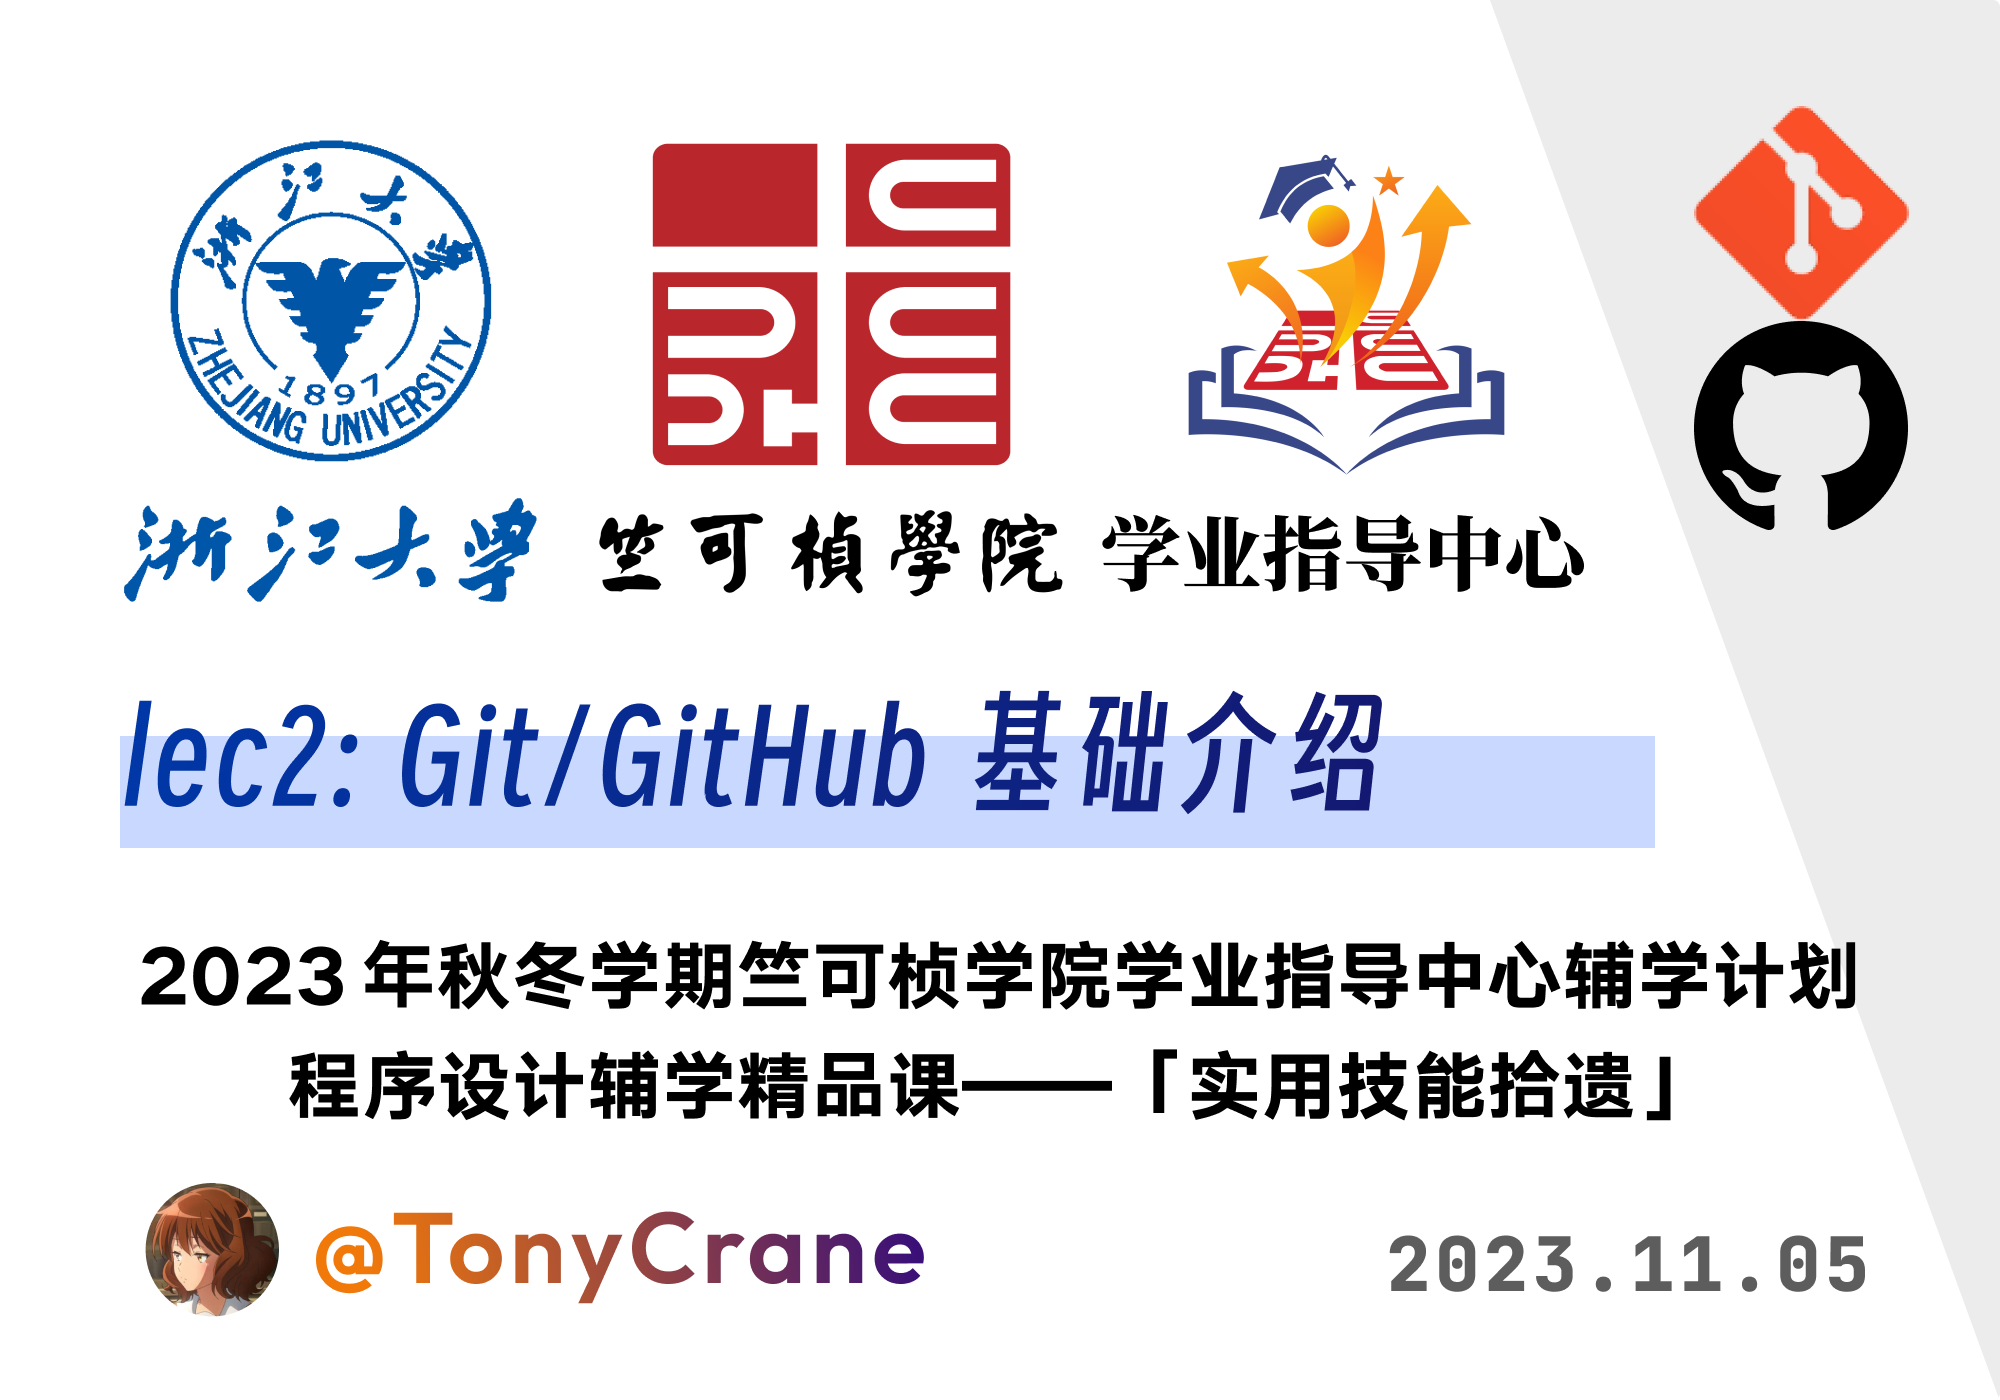
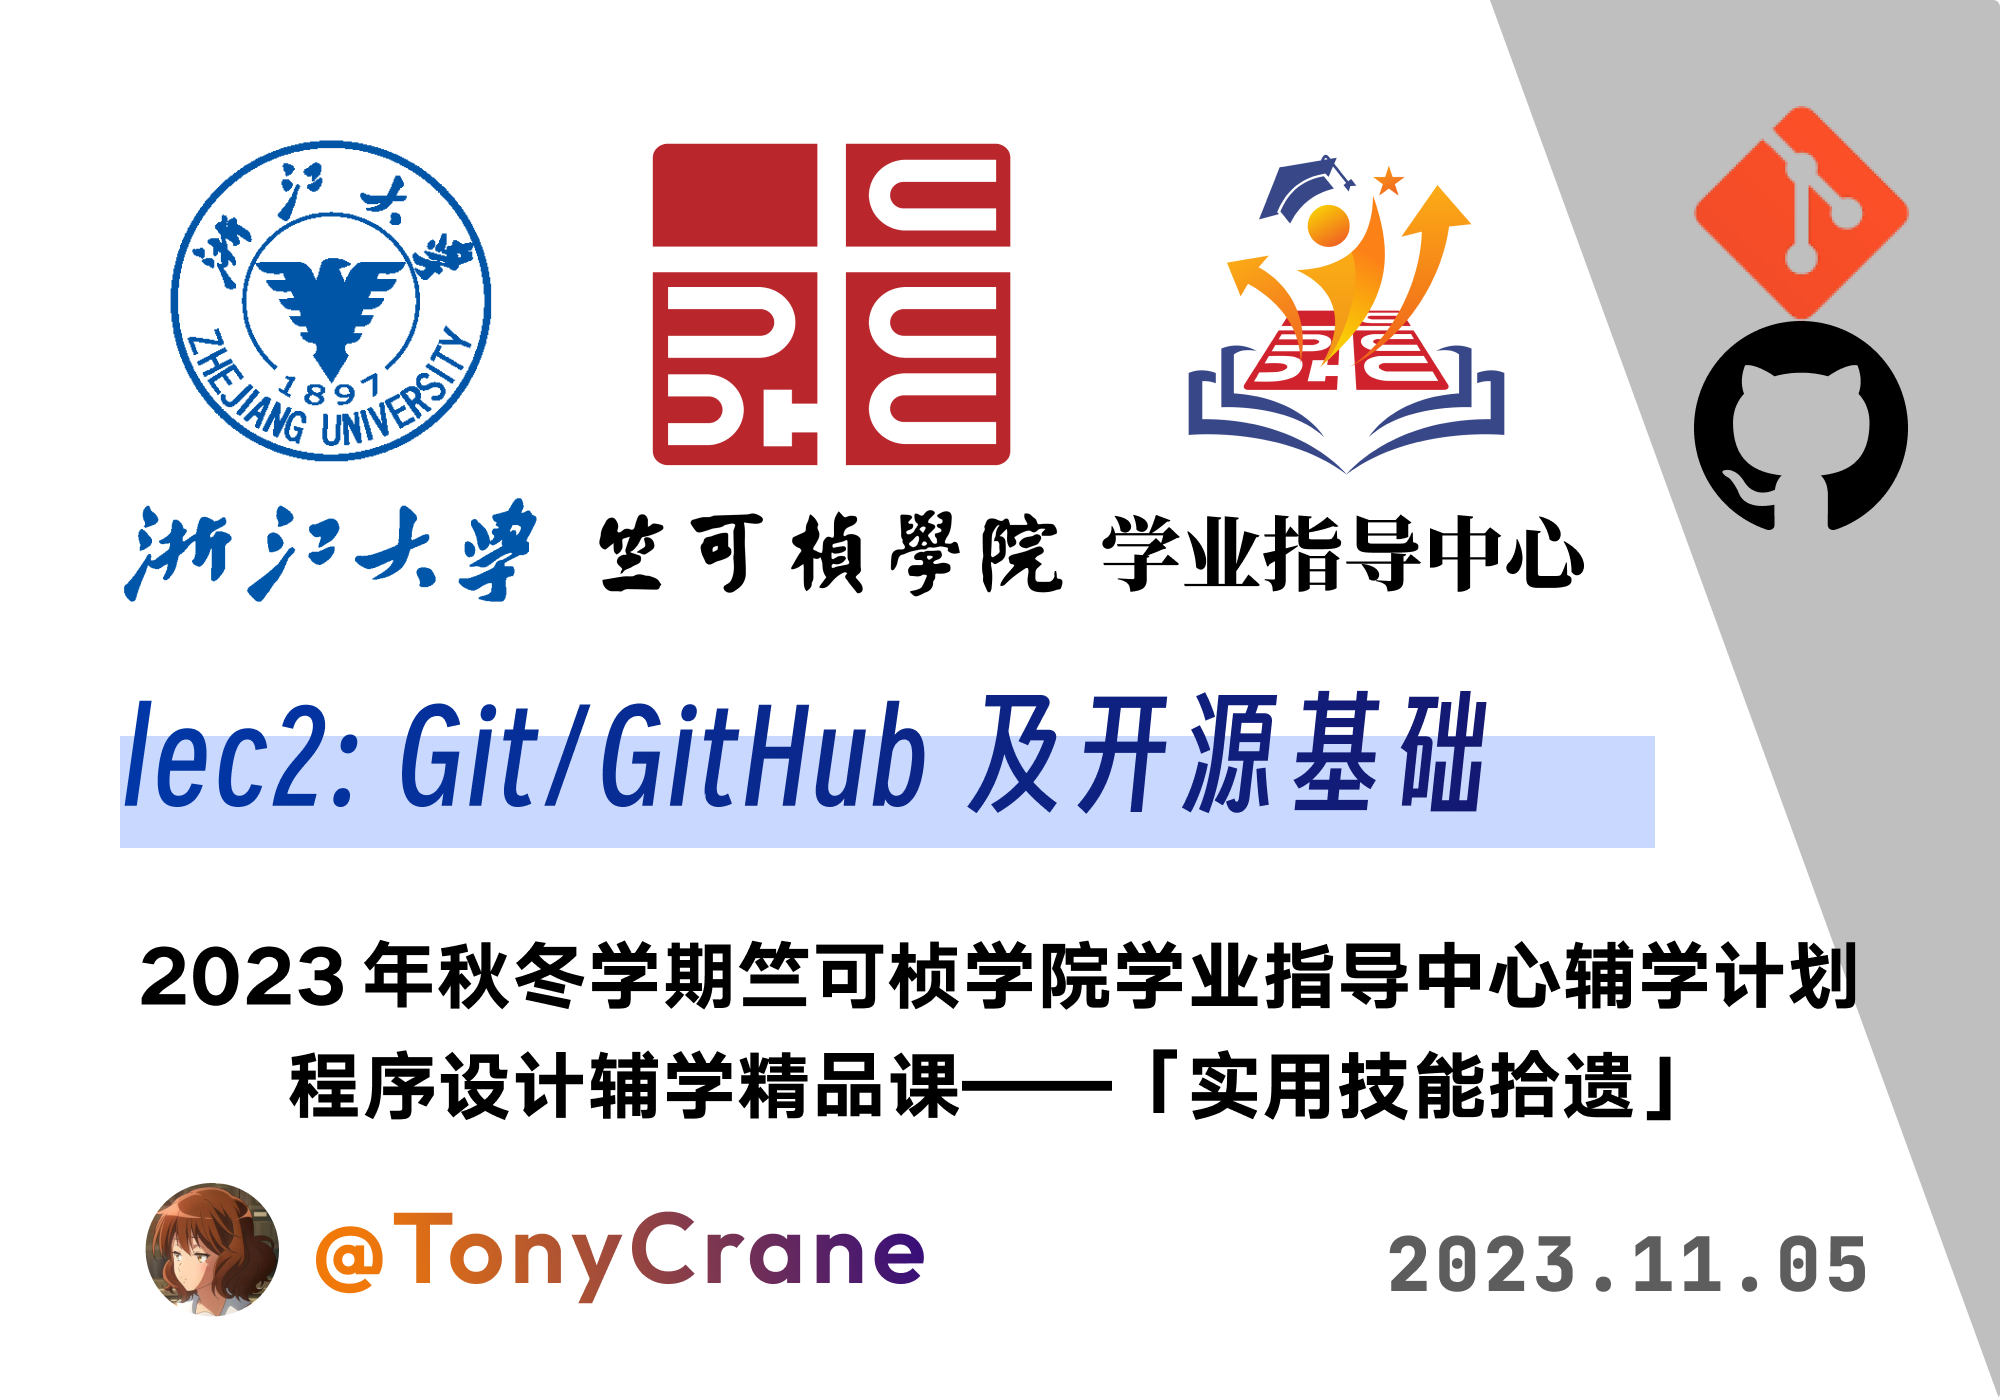
chore: change lec2 title

Changed region(s): [[0.744, 0.0, 1.0, 1.0], [0.465, 0.4914, 0.744, 0.5836]]

diff --git a/slides/site/2023-fall-ckc/index.html b/slides/site/2023-fall-ckc/index.html
@@ -53,7 +53,7 @@
 |:--|:--|:--|:--|:--|
 |lec0：前瞻：通往 Pro 的第一步|10.14（秋四周）|TonyCrane|[lec0](lec0/)|[BV1t34y1g7YU](https://www.bilibili.com/video/BV1t34y1g7YU/)|
 |lec1：Shell 基础及 CLI 工具推荐|10.22（秋五周）|45gfg9|[lec1](lec1/)|[BV1ry4y1A7qo](https://www.bilibili.com/video/BV1ry4y1A7qo/)|
-|lec2：Git/GitHub 基础介绍|11.05（秋七周）|TonyCrane|[lec2](lec2/)||
+|lec2：Git/GitHub 及开源基础|11.05（秋七周）|TonyCrane|[lec2](lec2/)||
 |lec3：Markdown 语法及应用|11.19（冬一周）|TonyCrane|||
 |lec4：LaTeX 排版简要介绍|12.03（冬三周）|45gfg9|||
 |lec5：如何排出规范、美观的文档|12.17（冬五周）|TonyCrane||
@@ -125,7 +125,7 @@
         var lectures = [
           { name: "#0 前瞻：通往 Pro 的第一步", src: "../lec0/"},
           { name: "#1 Shell 基础及 CLI 工具推荐", src: "../lec1/"},
-          { name: "#2 Git/GitHub 基础介绍", src: "../lec2/"},
+          { name: "#2 Git/GitHub 及开源基础", src: "../lec2/"},
           { name: "#3 Markdown 语法及应用", src: "../lec3/"},
           { name: "#4 LaTeX 排版简要介绍", src: "../lec4/"},
           { name: "#5 如何排出规范、美观的文档", src: "../lec5/"},

diff --git a/slides/site/2023-fall-ckc/lec0/index.html b/slides/site/2023-fall-ckc/lec0/index.html
@@ -142,7 +142,7 @@
 |:--|:--|:--|
 |lec0：前瞻：通往 Pro 的第一步|10.14（秋四周）|TonyCrane|
 |lec1：Shell 基础及 CLI 工具推荐|10.22（秋五周）|45gfg9|
-|lec2：Git/GitHub 基础介绍|11.05（秋七周）|TonyCrane|
+|lec2：Git/GitHub 及开源基础|11.05（秋七周）|TonyCrane|
 |lec3：Markdown 语法及应用|11.19（冬一周）|TonyCrane|
 |lec4：LaTeX 排版简要介绍|12.03（冬三周）|45gfg9|
 |lec5：如何排出规范、美观的文档|12.17（冬五周）|TonyCrane|
@@ -387,7 +387,7 @@
         var lectures = [
           { name: "#0 前瞻：通往 Pro 的第一步", src: "../lec0/"},
           { name: "#1 Shell 基础及 CLI 工具推荐", src: "../lec1/"},
-          { name: "#2 Git/GitHub 基础介绍", src: "../lec2/"},
+          { name: "#2 Git/GitHub 及开源基础", src: "../lec2/"},
           { name: "#3 Markdown 语法及应用", src: "../lec3/"},
           { name: "#4 LaTeX 排版简要介绍", src: "../lec4/"},
           { name: "#5 如何排出规范、美观的文档", src: "../lec5/"},

diff --git a/slides/site/2023-fall-ckc/lec2/index.html b/slides/site/2023-fall-ckc/lec2/index.html
@@ -38,8 +38,6 @@
     - 定义、开源许可证
     - 项目贡献基本操作（pull request）
 
-（不会讲解 Git 安装、稳定访问 GitHub 等内容）
-
 </script></section><section data-markdown><script type="text/template">
 <!-- .slide: data-background="lec2/background.png" -->
 
@@ -742,7 +740,7 @@ Git 学习资源
         var lectures = [
           { name: "#0 前瞻：通往 Pro 的第一步", src: "../lec0/"},
           { name: "#1 Shell 基础及 CLI 工具推荐", src: "../lec1/"},
-          { name: "#2 Git/GitHub 基础介绍", src: "../lec2/"},
+          { name: "#2 Git/GitHub 及开源基础", src: "../lec2/"},
           { name: "#3 Markdown 语法及应用", src: "../lec3/"},
           { name: "#4 LaTeX 排版简要介绍", src: "../lec4/"},
           { name: "#5 如何排出规范、美观的文档", src: "../lec5/"},

diff --git a/slides/site/2023-fall-ckc/lec4/index.html b/slides/site/2023-fall-ckc/lec4/index.html
@@ -841,7 +841,7 @@ a_{n1} & a_{n2} & \cdots & a_{nn}\\
         var lectures = [
           { name: "#0 前瞻：通往 Pro 的第一步", src: "../lec0/"},
           { name: "#1 Shell 基础及 CLI 工具推荐", src: "../lec1/"},
-          { name: "#2 Git/GitHub 基础介绍", src: "../lec2/"},
+          { name: "#2 Git/GitHub 及开源基础", src: "../lec2/"},
           { name: "#3 Markdown 语法及应用", src: "../lec3/"},
           { name: "#4 LaTeX 排版简要介绍", src: "../lec4/"},
           { name: "#5 如何排出规范、美观的文档", src: "../lec5/"},

diff --git a/slides/site/2023-fall-ckc/lec3/index.html b/slides/site/2023-fall-ckc/lec3/index.html
@@ -991,7 +991,7 @@ $ # more args see README
         var lectures = [
           { name: "#0 前瞻：通往 Pro 的第一步", src: "../lec0/"},
           { name: "#1 Shell 基础及 CLI 工具推荐", src: "../lec1/"},
-          { name: "#2 Git/GitHub 基础介绍", src: "../lec2/"},
+          { name: "#2 Git/GitHub 及开源基础", src: "../lec2/"},
           { name: "#3 Markdown 语法及应用", src: "../lec3/"},
           { name: "#4 LaTeX 排版简要介绍", src: "../lec4/"},
           { name: "#5 如何排出规范、美观的文档", src: "../lec5/"},

diff --git a/slides/site/2023-fall-ckc/lec1/index.html b/slides/site/2023-fall-ckc/lec1/index.html
@@ -944,7 +944,7 @@ Further reading:
         var lectures = [
           { name: "#0 前瞻：通往 Pro 的第一步", src: "../lec0/"},
           { name: "#1 Shell 基础及 CLI 工具推荐", src: "../lec1/"},
-          { name: "#2 Git/GitHub 基础介绍", src: "../lec2/"},
+          { name: "#2 Git/GitHub 及开源基础", src: "../lec2/"},
           { name: "#3 Markdown 语法及应用", src: "../lec3/"},
           { name: "#4 LaTeX 排版简要介绍", src: "../lec4/"},
           { name: "#5 如何排出规范、美观的文档", src: "../lec5/"},

diff --git a/slides/site/2023-fall-ckc/lec5/index.html b/slides/site/2023-fall-ckc/lec5/index.html
@@ -336,7 +336,7 @@
         var lectures = [
           { name: "#0 前瞻：通往 Pro 的第一步", src: "../lec0/"},
           { name: "#1 Shell 基础及 CLI 工具推荐", src: "../lec1/"},
-          { name: "#2 Git/GitHub 基础介绍", src: "../lec2/"},
+          { name: "#2 Git/GitHub 及开源基础", src: "../lec2/"},
           { name: "#3 Markdown 语法及应用", src: "../lec3/"},
           { name: "#4 LaTeX 排版简要介绍", src: "../lec4/"},
           { name: "#5 如何排出规范、美观的文档", src: "../lec5/"},

diff --git a/slides/site/2023-fall-ckc/lec6/index.html b/slides/site/2023-fall-ckc/lec6/index.html
@@ -86,7 +86,7 @@
         var lectures = [
           { name: "#0 前瞻：通往 Pro 的第一步", src: "../lec0/"},
           { name: "#1 Shell 基础及 CLI 工具推荐", src: "../lec1/"},
-          { name: "#2 Git/GitHub 基础介绍", src: "../lec2/"},
+          { name: "#2 Git/GitHub 及开源基础", src: "../lec2/"},
           { name: "#3 Markdown 语法及应用", src: "../lec3/"},
           { name: "#4 LaTeX 排版简要介绍", src: "../lec4/"},
           { name: "#5 如何排出规范、美观的文档", src: "../lec5/"},

diff --git a/slides/src/template.html b/slides/src/template.html
@@ -99,7 +99,7 @@
         var lectures = [
           { name: "#0 前瞻：通往 Pro 的第一步", src: "../lec0/"},
           { name: "#1 Shell 基础及 CLI 工具推荐", src: "../lec1/"},
-          { name: "#2 Git/GitHub 基础介绍", src: "../lec2/"},
+          { name: "#2 Git/GitHub 及开源基础", src: "../lec2/"},
           { name: "#3 Markdown 语法及应用", src: "../lec3/"},
           { name: "#4 LaTeX 排版简要介绍", src: "../lec4/"},
           { name: "#5 如何排出规范、美观的文档", src: "../lec5/"},

diff --git a/README.md b/README.md
@@ -32,7 +32,7 @@
     - 课程内容：
         - [lec0：前瞻：通往 Pro 的第一步](https://slides.tonycrane.cc/PracticalSkillsTutorial/2023-fall-ckc/lec0/) by [@TonyCrane](https://github.com/TonyCrane)
         - [lec1：Shell 基础及 CLI 工具推荐](https://slides.tonycrane.cc/PracticalSkillsTutorial/2023-fall-ckc/lec1/) by [@45gfg9](https://github.com/45gfg9)
-        - [lec2：Git/GitHub 基础介绍](https://slides.tonycrane.cc/PracticalSkillsTutorial/2023-fall-ckc/lec2/) by [@TonyCrane](https://github.com/TonyCrane)
+        - [lec2：Git/GitHub 及开源基础](https://slides.tonycrane.cc/PracticalSkillsTutorial/2023-fall-ckc/lec2/) by [@TonyCrane](https://github.com/TonyCrane)
         - [lec3：Markdown 语法及应用](https://slides.tonycrane.cc/PracticalSkillsTutorial/2023-fall-ckc/lec3/) by [@TonyCrane](https://github.com/TonyCrane)
         - [lec4：LaTeX 排版简要介绍](https://slides.tonycrane.cc/PracticalSkillsTutorial/2023-fall-ckc/lec4/) by [@45gfg9](https://github.com/45gfg9)
         - [lec5：如何排出规范、美观的文档](https://slides.tonycrane.cc/PracticalSkillsTutorial/2023-fall-ckc/lec5/) by [@TonyCrane](https://github.com/TonyCrane)

diff --git a/slides/src/home.md b/slides/src/home.md
@@ -45,10 +45,10 @@ revealOptions:
 <div class="three-line">
 
 |课程|日期|讲师|幻灯片|回放|
-|:--|:--|:--|:--|:--|
+|:--|:--|:--|:--|:--| 
 |lec0：前瞻：通往 Pro 的第一步|10.14（秋四周）|TonyCrane|[lec0](lec0/)|[BV1t34y1g7YU](https://www.bilibili.com/video/BV1t34y1g7YU/)|
 |lec1：Shell 基础及 CLI 工具推荐|10.22（秋五周）|45gfg9|[lec1](lec1/)|[BV1ry4y1A7qo](https://www.bilibili.com/video/BV1ry4y1A7qo/)|
-|lec2：Git/GitHub 基础介绍|11.05（秋七周）|TonyCrane|[lec2](lec2/)||
+|lec2：Git/GitHub 及开源基础|11.05（秋七周）|TonyCrane|[lec2](lec2/)||
 |lec3：Markdown 语法及应用|11.19（冬一周）|TonyCrane|||
 |lec4：LaTeX 排版简要介绍|12.03（冬三周）|45gfg9|||
 |lec5：如何排出规范、美观的文档|12.17（冬五周）|TonyCrane||

diff --git a/slides/src/lec0.md b/slides/src/lec0.md
@@ -136,7 +136,7 @@ revealOptions:
 |:--|:--|:--|
 |lec0：前瞻：通往 Pro 的第一步|10.14（秋四周）|TonyCrane|
 |lec1：Shell 基础及 CLI 工具推荐|10.22（秋五周）|45gfg9|
-|lec2：Git/GitHub 基础介绍|11.05（秋七周）|TonyCrane|
+|lec2：Git/GitHub 及开源基础|11.05（秋七周）|TonyCrane|
 |lec3：Markdown 语法及应用|11.19（冬一周）|TonyCrane|
 |lec4：LaTeX 排版简要介绍|12.03（冬三周）|45gfg9|
 |lec5：如何排出规范、美观的文档|12.17（冬五周）|TonyCrane|
